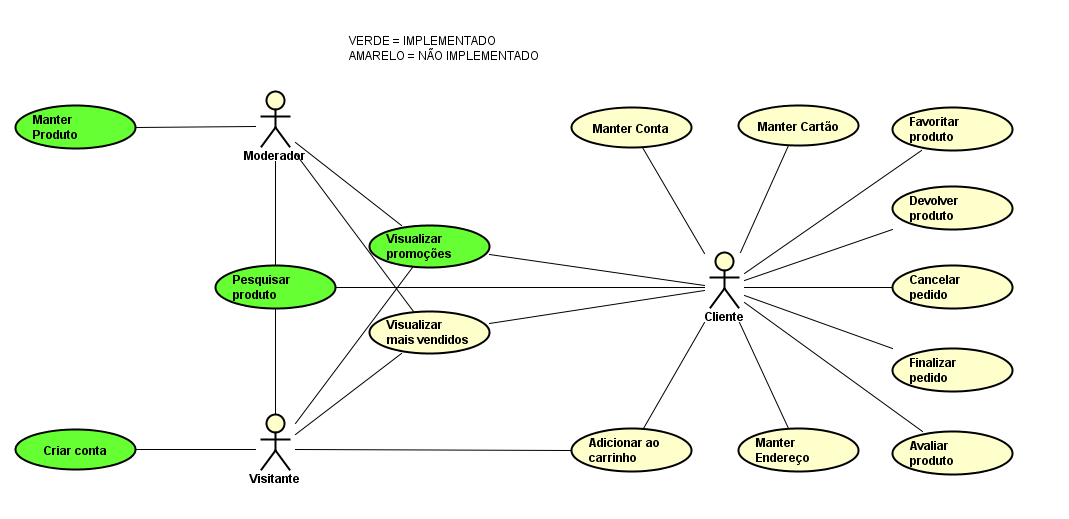
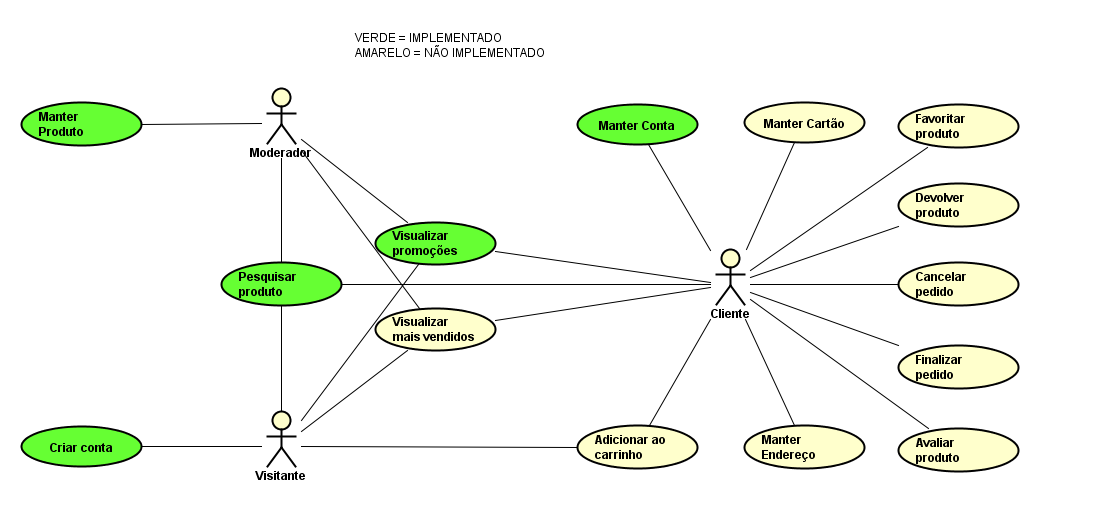
Finalização do CRUD de cliente

diff --git a/src/loja/templates/perfil.html b/src/loja/templates/perfil.html
@@ -26,19 +26,27 @@
             <a href="/carrinho"><i class="bi bi-cart-fill icon-cima"></i></a>
             <a class="ola-usuario" href="/perfil">Olá, <span>{{ user.username|first_name }}</span><i class="bi bi-chevron-down"></i></a>
         </section>
+        {% if messages %}
+            {% for message in messages %} 
+                <div class="message {{ message.tags }}">
+                    <span>{{ message }}</span>
+                </div>
+            {% endfor %}
+        {% endif %}
         <div class="container-flex">
             <section class="container-dados-usuario">
                 <h3>Meus dados</h3>
                 <div class="container-flex dados">
-                    <div class="dados-usuario">
-                        <p>Nome: <span>{{nome}}</span></p>
-                        <p>E-mail: <span>{{email}}</span></p>
+                    <form action="{% url 'edit' %}" method="POST" class="form-editardados">
+                        {% csrf_token %}
+                        <label for="nome">Nome: <input type="text" name="nome" id="nome" value="{{nome}}"></label>
+                        <label for="email">E-mail: <input type="text" name="email" id="email" value="{{email}}"></label>
                         <p>CPF: <span>{{cpf}}</span></p>
-                        <p>Telefone Celular: <span>{{tel_celular}}</span></p>
-                    </div>
+                        <label for="tel_celular">Telefone Celular: <input type="text" name="tel_celular" id="tel_celular" value="{{tel_celular}}"></label>
+                        <button type="submit">Atualizar</button>
+                    </form>
                     <img src="{% static 'images/imagem-editar.svg' %}" alt="" class="img-editar">
                 </div>
-                <button>Editar</button>
             </section>
             <section class="container-menu-secundario">
                 <h3>Mais Opções</h3>
@@ -96,7 +104,9 @@
 
 {% block script %}
     <script>
-        excluirPopUp = document.querySelector('.excluirconta-popup')
+        const excluirPopUp = document.querySelector('.excluirconta-popup')
+        const successMessage = document.querySelector('.success')
+        const errorMessage = document.querySelector('.error')
 
         function abrirExcluir() {
             excluirPopUp.style.visibility = 'visible'
@@ -107,5 +117,15 @@
             excluirPopUp.style.visibility = 'hidden'
             excluirPopUp.style.opacity = '0'
         }
+
+        if (successMessage) {
+            setTimeout(function() {
+                window.location.href = "{% url 'perfil' %}"
+            }, 2000)
+        } else if (errorMessage) {
+            setTimeout(function() {
+                window.location.href = "{% url 'perfil' %}"
+            }, 2000)
+        } 
     </script>
 {% endblock %}

diff --git a/src/loja/static/css/perfil.css b/src/loja/static/css/perfil.css
@@ -15,6 +15,10 @@
     justify-content: space-between;
 }
 
+.container-flex .dados {
+    align-items: start;
+}
+
 .container-dados-usuario {
     width: 55%;
     display: flex;
@@ -22,8 +26,38 @@
     box-shadow: 0 0 5px rgba(0, 0, 0, 0.411);
     border-radius: 15px;
     padding: 1em 1.5em;
+}
+
+.form-editardados {
+    display: flex;
+    flex-direction: column;
+    gap: 1em;
+    margin-top: 1em;
+    font-size: 1.1em;
+    width: 100%;
+    & label, p {
+        font-weight: bold;
+    }
+    & input {
+        border: 2px solid var(--dark-green);
+        border-radius: 6px;
+        padding-left: .3em;
+        outline: none;
+    }
+    & input[name='nome'] {
+        width: 76.3%;
+    }
+    & input[name='email'] {
+        width: 75%;
+    }
+    & input[name='tel_celular'] {
+        width: 40%;
+    }
+    & span {
+        font-weight: lighter;
+    }
     & button {
-        width: 10%;
+        width: 25%;
         margin-top: 1.5em;
         border: none;
         border-radius: 5px;
@@ -32,27 +66,6 @@
         text-align: center;
         padding: .4em .6em;
     }
-}
-
-.dados-usuario {
-    display: flex;
-    flex-direction: column;
-    gap: 1em;
-    font-size: 1.1em;
-    & > div {
-        display: flex;
-        justify-content: space-between;
-    }
-    & p {
-        font-weight: bold;
-    }
-    & span {
-        font-weight: lighter;
-    }
-}
-
-.container-flex .dados {
-    align-items: center;
 }
 
 .img-editar {

diff --git a/src/loja/templates/cadastro.html b/src/loja/templates/cadastro.html
@@ -6,6 +6,7 @@
     <meta charset="UTF-8">
     <meta name="viewport" content="width=device-width, initial-scale=1.0">
     <link rel="stylesheet" href="https://cdnjs.cloudflare.com/ajax/libs/bootstrap-icons/1.10.3/font/bootstrap-icons.min.css">
+    <link rel="icon" href="{% static 'images/favicon.ico' %}" type="image/x-icon">
     <link rel="stylesheet" href="{% static 'css/base.css' %}">
     <link rel="stylesheet" href="{% static 'css/cadastro.css' %}">
     <title>PowerUP - Cadastro</title>
@@ -71,7 +72,7 @@
         } else if (errorMessage) {
             setTimeout(function() {
                 window.location.href = "{% url 'cadastro' %}"
-            }, 2000)
+            }, 1000)
         }
     </script>
 </body>

diff --git a/src/loja/templates/login.html b/src/loja/templates/login.html
@@ -6,6 +6,7 @@
     <meta charset="UTF-8">
     <meta name="viewport" content="width=device-width, initial-scale=1.0">
     <link rel="stylesheet" href="https://cdnjs.cloudflare.com/ajax/libs/bootstrap-icons/1.10.3/font/bootstrap-icons.min.css">
+    <link rel="icon" href="{% static 'images/favicon.ico' %}" type="image/x-icon">
     <link rel="stylesheet" href="{% static 'css/base.css' %}">
     <link rel="stylesheet" href="{% static 'css/login.css' %}">
     <title>PowerUP - Login</title>
@@ -56,7 +57,7 @@
         } else if (errorMessage) {
             setTimeout(function() {
                 window.location.href = "{% url 'login' %}"
-            }, 2000)
+            }, 1000)
         }
     </script>
 </body>

diff --git a/src/loja/templates/home.html b/src/loja/templates/home.html
@@ -161,7 +161,7 @@
             }, 2000)
         } else if (errorMessage) {
             setTimeout(function() {
-                window.location.href = "{% url 'perfil' %}"
+                window.location.href = "{% url 'home' %}"
             }, 2000)
         } 
     </script>

diff --git a/src/loja/views/PerfilView.py b/src/loja/views/PerfilView.py
@@ -2,39 +2,59 @@ from django.shortcuts import render, redirect
 from django.contrib import messages
 from django.contrib.auth import logout
 from django.urls import reverse
+from django.contrib.auth.decorators import login_required
 from loja.models import Cliente
 
+@login_required
 def perfil_view(request):
     user = request.user
     clientes = Cliente.objects.all()
 
-    if user.is_authenticated:
-        nome = user.username
-        email = user.email
-        tel_celular = ''
-        cpf = ''
+    nome = user.username
+    email = user.email
+    tel_celular = ''
+    cpf = ''
 
-        for cliente in clientes:
-            if cliente.id == user.id:
-                cpf = cliente.CPF
-                tel_celular = cliente.Telefone_celular
+    for cliente in clientes:
+        if cliente.id == user.id:
+            cpf = cliente.CPF
+            tel_celular = cliente.Telefone_celular
 
-        context = {
-            'nome': nome,
-            'email': email,
-            'tel_celular': tel_celular,
-            'cpf': cpf
-        }
-        return render(request, template_name='perfil.html', context=context, status=200)
-    else:
-        return redirect('login')
+    context = {
+        'nome': nome,
+        'email': email,
+        'tel_celular': tel_celular,
+        'cpf': cpf
+    }
+    return render(request, template_name='perfil.html', context=context, status=200)
+
+@login_required 
+def edit_dados_view(request):
+    user = request.user
+
+    cliente = Cliente.objects.get(user=user)
+
+    if request.method == 'POST':
+        nome = request.POST.get('nome')
+        email = request.POST.get('email')
+        tel_celular = request.POST.get('tel_celular')
+
+        user.username = nome
+        user.email = email
+        user.save()
+
+        cliente.Telefone_celular = tel_celular
+        cliente.save()
+
+        messages.success(request, 'Dados atualizados com sucesso!')
+        return render(request, template_name='perfil.html', status=200)
     
 def logout_view(request):
     logout(request)
     return redirect(reverse('home'))
 
 def excluir_conta_view(request):
-    if request.method == 'POST':
+    if request.method == 'POST':    
         user = request.user
 
         user.delete()

diff --git a/src/loja/urls/PerfilUrls.py b/src/loja/urls/PerfilUrls.py
@@ -1,9 +1,10 @@
 from django.urls import path
 
-from loja.views.PerfilView import perfil_view, logout_view, excluir_conta_view
+from loja.views.PerfilView import perfil_view, edit_dados_view, logout_view, excluir_conta_view
 
 urlpatterns = [
     path('', perfil_view, name='perfil'),
-    path("logout/", logout_view, name='logout'),
-    path("excluir/", excluir_conta_view, name='excluir'),
+    path('edit/', edit_dados_view, name='edit'),
+    path('logout/', logout_view, name='logout'),
+    path('excluir/', excluir_conta_view, name='excluir'),
 ]

diff --git a/src/lojaAdmin/settings.py b/src/lojaAdmin/settings.py
@@ -10,6 +10,7 @@ DEBUG = True
 
 ALLOWED_HOSTS = ['127.0.0.1']
 
+LOGIN_URL = '/login/'
 
 # Application definition
 
